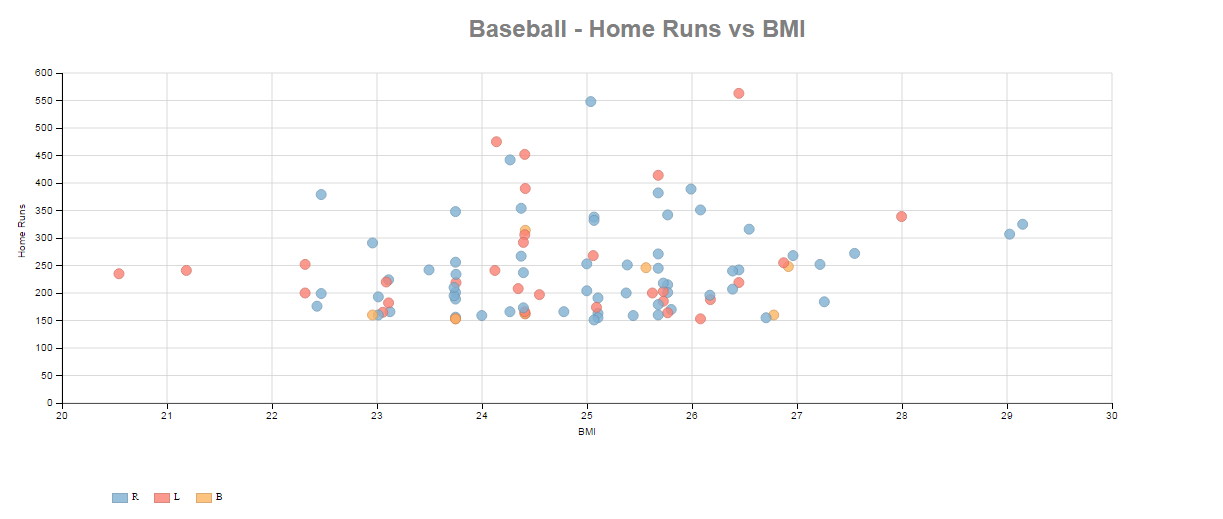
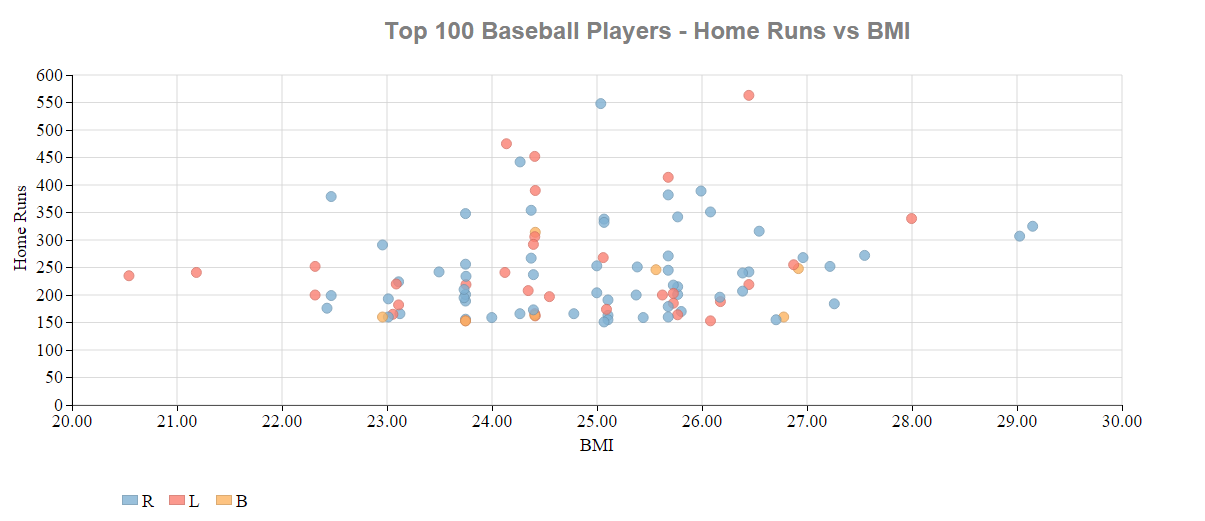
Updating image directory as well as index1.html, index2.html, index3.html

diff --git a/index3.html b/index3.html
@@ -30,7 +30,7 @@
           
           d3.select('body')
             .append('h2')
-            .text("Baseball - Home Runs vs BMI");
+            .text("Top 100 Baseball Players - Home Runs vs BMI");
           
           var svg = d3.select("body")
             .append("svg")
@@ -62,11 +62,17 @@
           z.overrideMin = 0.22
           z.overrideMax = 0.4
          
-         
-          x.fontSize = "10px"
-          y.fontSize = "10px"
+
+       /*Set font and font size*/  
+          x.fontSize = "18px";
+          y.fontSize = "18px";
           x.fontFamily = 'Optima';
           y.fontFamily = 'Optima';
+
+       /*Format axis to prevent rounding by tooltips*/
+          z.tickFormat = ",.2f";
+          x.tickFormat = ",.2f";
+
 
 
 
@@ -75,10 +81,9 @@
         key to avoid dimple.js aggregation of keys
       */
           var s = myChart.addSeries([ "Name",
-                                      "Home Runs", 
-                                      "BMI",
-                                      "Handedness"
-                                     ], 
+                                      "Home Runs",
+                                      "Handedness",
+                                      ], 
                                     dimple.plot.scatter);
       /*
         Add a legend to facet the data points based on Handedness
@@ -89,7 +94,7 @@
                                            200 
                                            );
           myLegend.fontFamily = 'Optima';
-          myLegend.fontSize = "10px";
+          myLegend.fontSize = "18px";
 
           myChart.draw();      
           

diff --git a/index2.html b/index2.html
@@ -30,7 +30,7 @@
           
           d3.select('body')
             .append('h2')
-            .text("Baseball - Home Runs vs BMI");
+            .text("Top 100 Baseball Players - Home Runs vs BMI");
           
           var svg = d3.select("body")
             .append("svg")
@@ -52,14 +52,25 @@
 
           var y = myChart.addMeasureAxis("y", 
                                          "Home Runs");
-           
+      
+       /*Set font and font size*/  
+          x.fontSize = "18px";
+          y.fontSize = "18px";
+          x.fontFamily = 'Optima';
+          y.fontFamily = 'Optima';
+
+       /*Format axis to prevent rounding by tooltips*/
+          x.tickFormat = ",.2f";
+
+
+
+
       /*
         Order variables for mouse hover and add name to create unique
         key to avoid dimple.js aggregation of keys
       */
           var s = myChart.addSeries([ "Name",
-                                      "Home Runs", 
-                                      "BMI",
+                                      "Home Runs",
                                       "Handedness"
                                      ], 
                                     dimple.plot.scatter);
@@ -72,7 +83,7 @@
                                            200 
                                            );
           myLegend.fontFamily = 'Optima';
-          myLegend.fontSize = "10px";
+          myLegend.fontSize = "18px";
 
           myChart.draw();      
           

diff --git a/index1.html b/index1.html
@@ -52,14 +52,24 @@
 
           var y = myChart.addMeasureAxis("y", 
                                          "Home Runs");
-           
+      
+      /*Set font and font size*/  
+          x.fontSize = "18px";
+          y.fontSize = "18px";
+          x.fontFamily = 'Optima';
+          y.fontFamily = 'Optima';
+
+       /*Format axis to prevent rounding by tooltips*/
+          x.tickFormat = ",.2f";
+     
+      
+
       /*
         Order variables for mouse hover and add name to create unique
         key to avoid dimple.js aggregation of keys
       */
           var s = myChart.addSeries([ "Name",
-                                      "Home Runs", 
-                                      "BMI",
+                                      "Home Runs",
                                       "Handedness"
                                      ], 
                                     dimple.plot.scatter);
@@ -72,7 +82,7 @@
                                            200 
                                            );
           myLegend.fontFamily = 'Optima';
-          myLegend.fontSize = "10px";
+          myLegend.fontSize = "18px";
 
           myChart.draw();      
           
